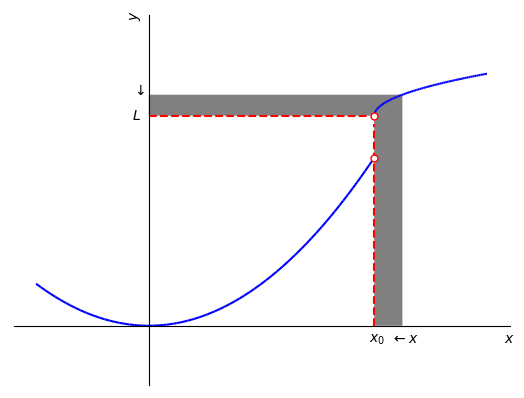
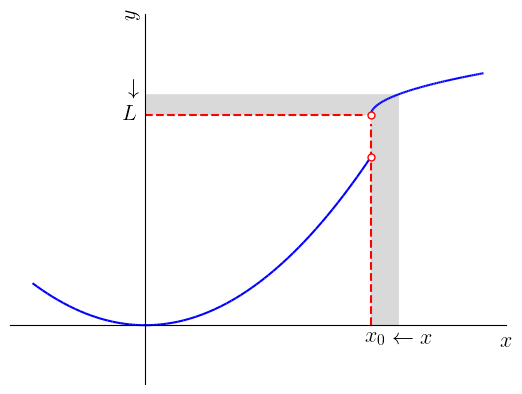
*: revisão

diff --git a/src/CalculoI/cap_lim/cap_lim.tex b/src/CalculoI/cap_lim/cap_lim.tex
@@ -739,13 +739,13 @@ Quando o fator em comum não aparece explicitamente, podemos tentar trabalhar al
 
 Seja dada uma função $f$ definida para todo $x$ em um intervalo aberto $(a, x_0)$. O {\bf limite lateral à esquerda} de $f$ no ponto $x_0$ é denotado por
 \begin{equation}
-  \lim_{x\to x_0^-} f(x)
+  \lim_{x\to {\color{red}x_0^-}} f(x)
 \end{equation}
 e é computado tendo em vista a tendência da função apenas para pontos $x<x_0$. Em outras palavras, o
 \begin{equation}
   \lim_{x\to x_0^-} f(x) = L
 \end{equation}
-quando $f(x)$ pode ser tomado arbitrariamente próximo de $L$, desde que tomemos $x<x_0$ suficientemente próximo de $a$. Veja a Figura \ref{fig:lim_esq}.
+quando $f(x)$ é arbitrariamente próximo de $L$, para todo $x<x_0$ suficientemente próximo de $x_0$. Veja a Figura \ref{fig:lim_esq}.
 
 \begin{figure}[H]
   \centering
@@ -756,13 +756,13 @@ quando $f(x)$ pode ser tomado arbitrariamente próximo de $L$, desde que tomemos
 
 Para uma função $f$ definida para todo $x$ em um intervalo aberto $(x_0, b)$, o {\bf limite lateral à direita} de $f$ no ponto $x_0$ é denotado por
 \begin{equation}
-  \lim_{x\to x_0^+} f(x)
+  \lim_{x\to {\color{blue}x_0^+}} f(x)
 \end{equation}
 e é computado tendo em vista a tendência da função apenas para pontos $x>x_0$. Em outras palavras, temos
 \begin{equation}
   \lim_{x\to x_0^+} f(x) = L,
 \end{equation}
-quando $f(x)$ pode ser tomado arbitrariamente próximo de $L$, desde que tomemos $x>x_0$ suficientemente próximo de $x_0$. Veja a Figura \ref{fig:lim_dir}.
+quando $f(x)$ é arbitrariamente próximo de $L$, para todo $x>x_0$ suficientemente próximo de $x_0$. Veja a Figura \ref{fig:lim_dir}.
 
 \begin{figure}[H]
   \centering
@@ -774,9 +774,13 @@ quando $f(x)$ pode ser tomado arbitrariamente próximo de $L$, desde que tomemos
 \begin{obs}
   Por inferência direta, temos
   \begin{equation}
-    \lim_{x\to x_0^{\pm}} k = k\quad\text{e}\quad\lim_{x\to x_0^{\pm}} x = x_0,
+    \lim_{x\to x_0^{\pm}} k = k
   \end{equation}
-  onde $x_0$ e $k$ são quaisquer números reais.
+  e
+  \begin{equation}
+    \lim_{x\to x_0^{\pm}} x = x_0,
+  \end{equation}
+  onde $x_0$ e $k$ são quaisquer dados números reais.
 \end{obs}
 
 \begin{exer}\label{ex:lim_absx}
@@ -794,9 +798,10 @@ quando $f(x)$ pode ser tomado arbitrariamente próximo de $L$, desde que tomemos
     \right.
   \end{equation}
   Como estamos interessados no limite lateral à esquerda de $x=0$, trabalhamos com $x<0$ e, então
-  \begin{equation}
-    \lim_{x\to 0^-} |x| = \lim_{x\to 0^-} -x = -\lim_{x\to 0^-} x = 0.
-  \end{equation}
+  \begin{align}
+    \lim_{x\to 0^-} |x| &= \lim_{x\to 0^-} -x\\
+                        &= -\lim_{x\to 0^-} x = 0.
+  \end{align}
   
   Analogamente, calculamos
   \begin{equation}
@@ -805,9 +810,10 @@ quando $f(x)$ pode ser tomado arbitrariamente próximo de $L$, desde que tomemos
   Verifique!
 
   \ifispython
-  Usando o {\sympy}, podemos computar os limites acima com os seguintes comandos:
+  Com o {\python}+{\sympy}, podemos computar os limites acima com os seguintes comandos.
   \begin{lstlisting}
     from sympy import *
+    x = Symbol("x")
     limit(abs(x),x,0,'-')
     limit(abs(x),x,0,'+')
   \end{lstlisting}
@@ -815,7 +821,11 @@ quando $f(x)$ pode ser tomado arbitrariamente próximo de $L$, desde que tomemos
 \end{exer}
 
 \begin{teo}\label{teo:lim_existe}
-  Existe o limite de uma dada função $f$ no ponto $x=x_0$ e $\lim_{x\to x_0} f(x) = L$ se, e somente se, existem e são iguais a $L$ os limites laterais à esquerda e à direita de $f$ no ponto $x=x_0$.
+  Existe o limite de uma dada função $f$ no ponto $x=x_0$ e
+  \begin{equation}
+    \lim_{x\to x_0} f(x) = L
+  \end{equation}
+  se, e somente se, existem e são iguais a $L$ os limites laterais à esquerda e à direita de $f$ no ponto $x=x_0$.
 \end{teo}
 
 \begin{exer}
@@ -844,12 +854,13 @@ quando $f(x)$ pode ser tomado arbitrariamente próximo de $L$, desde que tomemos
     \lim_{x\to 0^+} \frac{|x|}{x} &= \lim_{x\to 0^+} \frac{x}{x}\\
     &= \lim_{x\to 0^+} 1 = 1.
   \end{align}
-  Como os limites laterais à esquerda e à direita são diferentes, concluímos que não existe o limite de $|x|/x$ no ponto $x=0$.
+  Como os \emph{limites laterais} à esquerda e à direita \emph{são diferentes}, concluímos que \emph{não existe o limite} de $|x|/x$ no ponto $x=0$.
 
   \ifispython
   Com o {\sympy}, por padrão o limite computado é sempre o limite lateral à direita. É por isso que o comando
   \begin{lstlisting}
     from sympy import *
+    x = Symbol("x")
     limit(abs(x)/x,x,0)
   \end{lstlisting}
   fornece o valor $1$ como saída.
@@ -859,7 +870,11 @@ quando $f(x)$ pode ser tomado arbitrariamente próximo de $L$, desde que tomemos
 \begin{obs}
   As regras básicas para o cálculo de limites bilaterais são estendidas para limites laterais. I.e., se
   \begin{equation}
-    \lim_{x\to x_0^{\pm}} f(x) = L_1\quad\text{e}\quad\lim_{x\to x_0^{\pm}} g(x) = L_2,
+    \lim_{x\to x_0^{\pm}} f(x) = L_1
+  \end{equation}
+  e
+  \begin{equation}
+    \lim_{x\to x_0^{\pm}} g(x) = L_2,
   \end{equation}
   então valem a:
   \begin{itemize}
@@ -869,23 +884,27 @@ quando $f(x)$ pode ser tomado arbitrariamente próximo de $L$, desde que tomemos
   \end{equation}
   para qualquer número real $k$.
 \item regra da soma/subtração:
-  \begin{equation}
-    \lim_{x\to x_0^{\pm}} f(x) \pm g(x) = \lim_{x\to x_0^{\pm}} f(x) \pm \lim_{x\to x_0^{\pm}} g(x) = L_1 + L_2
-  \end{equation}
+  \begin{align}
+    \lim_{x\to x_0^{\pm}} f(x) \pm g(x) &= \lim_{x\to x_0^{\pm}} f(x) \pm \lim_{x\to x_0^{\pm}} g(x)\\
+                                        &= L_1 + L_2
+  \end{align}
 \item regra do produto:
-  \begin{equation}
-    \lim_{x\to x_0^\pm} f(x) \cdot g(x) = \lim_{x\to x_0^\pm} f(x) \cdot \lim_{x\to x_0^\pm} g(x) = L_1 \cdot L_2
-  \end{equation}
+  \begin{align}
+    \lim_{x\to x_0^\pm} f(x) \cdot g(x) &= \lim_{x\to x_0^\pm} f(x) \cdot \lim_{x\to x_0^\pm} g(x)\\
+                                        &= L_1 \cdot L_2
+  \end{align}
 \item regra do quociente:
-  \begin{equation}
-    \lim_{x\to x_0^\pm} \frac{f(x)}{g(x)} = \frac{\lim_{x\to x_0^\pm} f(x)}{\lim_{x\to x_0^\pm} g(x)} = \frac{L_1}{L_2},
-  \end{equation}
+  \begin{align}
+    \lim_{x\to x_0^\pm} \frac{f(x)}{g(x)} &= \frac{\lim_{x\to x_0^\pm} f(x)}{\lim_{x\to x_0^\pm} g(x)}\\
+                                          &= \frac{L_1}{L_2},
+  \end{align}
   desde que $L_2\neq 0$.
 \item regra da potenciação:
-  \begin{equation}
-    \lim_{x\to x_0^\pm} (f(x))^s = \left(\lim_{x\to x_0^\pm} f(x) \right)^s = L_1^s,
-  \end{equation}
-  se $L_1^s$ é um número real.
+  \begin{align}
+    \lim_{x\to x_0^\pm} (f(x))^s &= \left(\lim_{x\to x_0^\pm} f(x) \right)^s\\
+    &= L_1^s,
+  \end{align}
+  se, adicionalmente, $L_1^s$ é um número real.
 \end{itemize}
 \end{obs}
 

diff --git a/src/CalculoI/cap_lim/dados/fig_lim_esq/main.py b/src/CalculoI/cap_lim/dados/fig_lim_esq/main.py
@@ -1,4 +1,12 @@
+import matplotlib as plt
 from sympy import *
+
+plt.rcParams.update({
+     "text.usetex": True,
+     "font.family": "serif",
+     "font.size": 16
+     })
+
 var('x,y', real=True)
 
 x0 = 2
@@ -12,10 +20,10 @@ p.extend(q)
 q = plot(7,(x,-1,3),line_color="none",show=False)
 p.extend(q)
 q = plot_implicit(y<x**2,(x,x0-tol,x0),(y,0,8),
-                  line_color="gray",show=False)
+                  line_color="0.85",show=False)
 p.extend(q)
 q = plot_implicit(x<sqrt(y),(x,0,2),(y,(x0-tol)**2,x0**2),
-                  line_color="gray",show=False)
+                  line_color="0.85",show=False)
 p.extend(q)
 p.xlabel = '$x$'
 p.ylabel = '$y$'
@@ -26,12 +34,12 @@ ax = fig.axes[0]
 ax.set_yticks([])
 ax.set_xticks([])
 ax.grid()
-ax.text(x0-tol-0.1,-0.4,"$x\\rightarrow$")
+ax.text(x0-tol-0.2,-0.45,"$x\\rightarrow$")
 ax.plot([x0,x0],[0,x0**2-0.2],ls='--',color="red")
 ax.plot([0,x0-0.05],[x0**2,x0**2],ls='--',color="red")
-ax.text(x0-0.05,-0.4,"$x_0$")
-ax.text(-0.15,(x0-tol)**2,"$\\uparrow$")
-ax.text(-0.15,x0**2-0.1,"$L$")
-ax.plot([x0],[x0**2],marker="o",markersize=5,markeredgecolor="red",markerfacecolor="white")
-ax.plot([x0],[-(x0-2)**2+5],marker="o",markersize=5,markeredgecolor="red",markerfacecolor="white")
+ax.text(x0-0.05,-0.45,"$x_0$")
+ax.text(-0.15,(x0-tol)**2+0.2,"$\\uparrow$")
+ax.text(-0.2,x0**2-0.1,"$L$")
+ax.plot([x0],[x0**2],marker="o",markersize=6,markeredgecolor="red",markerfacecolor="white")
+ax.plot([x0],[-(x0-2)**2+5],marker="o",markersize=6,markeredgecolor="red",markerfacecolor="white")
 fig.savefig('fig_lim_esq.png', bbox_inches='tight')

diff --git a/src/CalculoI/cap_lim/dados/fig_lim_dir/main.py b/src/CalculoI/cap_lim/dados/fig_lim_dir/main.py
@@ -1,4 +1,12 @@
+import matplotlib as plt
 from sympy import *
+
+plt.rcParams.update({
+     "text.usetex": True,
+     "font.family": "serif",
+     "font.size": 16
+     })
+
 var('x,y', real=True)
 
 x0 = 2
@@ -12,10 +20,10 @@ p.extend(q)
 q = plot(7,(x,-1,3),line_color="none",show=False)
 p.extend(q)
 q = plot_implicit(y<sqrt(x-2)+5,(x,x0,x0+tol),(y,0,8),
-                  line_color="gray",show=False)
+                  line_color="0.85",show=False)
 p.extend(q)
 q = plot_implicit(x<(5-y)**2+2,(x,0,x0+tol),(y,sqrt(x0-2)+5,sqrt(x0+tol-2)+5),
-                  line_color="gray",show=False)
+                  line_color="0.85",show=False)
 p.extend(q)
 p.xlabel = '$x$'
 p.ylabel = '$y$'
@@ -26,12 +34,12 @@ ax = fig.axes[0]
 ax.set_yticks([])
 ax.set_xticks([])
 ax.grid()
-ax.text(x0+tol-0.1,-0.4,"$\\leftarrow x$")
+ax.text(x0+tol-0.05,-0.45,"$\\leftarrow x$")
 ax.plot([x0,x0],[0,sqrt(x0-2)+5-0.2],ls='--',color="red")
 ax.plot([0,x0-0.05],[sqrt(x0-2)+5,sqrt(x0-2)+5],ls='--',color="red")
-ax.text(x0-0.05,-0.4,"$x_0$")
+ax.text(x0-0.05,-0.45,"$x_0$")
 ax.text(-0.15,sqrt(x0+tol-2)+5,"$\\downarrow$")
-ax.text(-0.15,sqrt(x0-2)+5-0.1,"$L$")
+ax.text(-0.2,sqrt(x0-2)+5-0.1,"$L$")
 ax.plot([x0],[x0**2],marker="o",markersize=5,markeredgecolor="red",markerfacecolor="white")
 ax.plot([x0],[-(x0-2)**2+5],marker="o",markersize=5,markeredgecolor="red",markerfacecolor="white")
 fig.savefig('fig_lim_dir.png', bbox_inches='tight')
